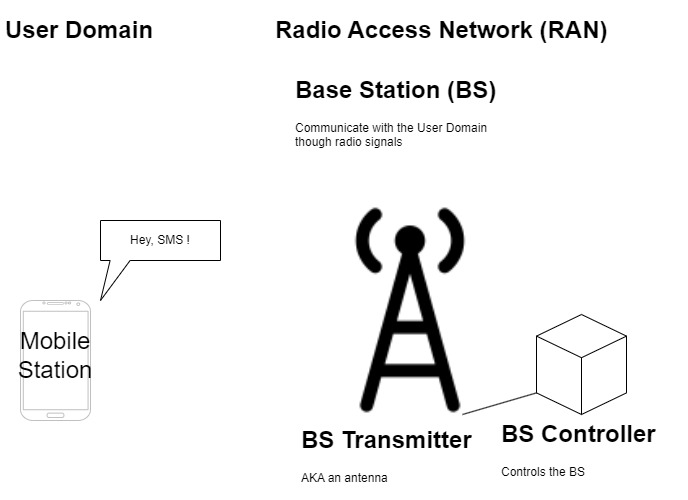
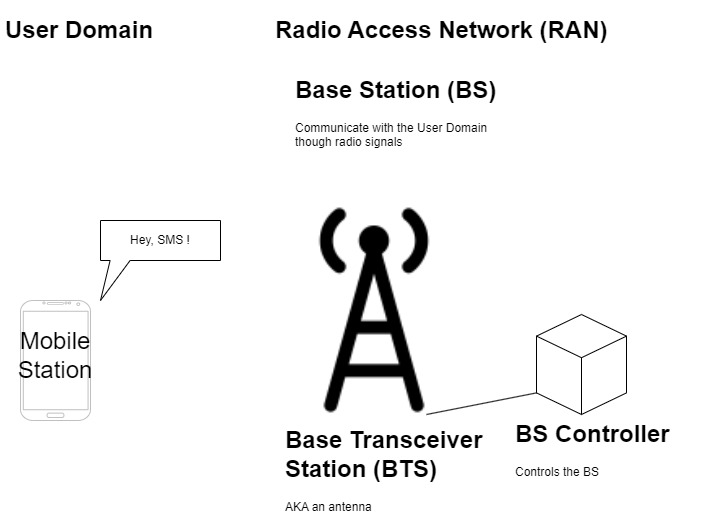
fixed BTS wrong acronym

diff --git a/arm/arm.md b/arm/arm.md
@@ -9,22 +9,22 @@ Sources :
 
 # Sending a SMS though the mobile network
 
-Because mobile network are no fun without stories, let's start a new one.
+Because mobile networks are no fun without stories, let's start a new one.
 
 ## User Domain
 
-Your name's Alicia and you possess a mobile phone. Here, your mobile phone will be referred as a *mobile station* (**MS**) or more globally, a *user equipment* (**UE**). In your phone, there's a **SIM** (*Subscriber Identify Module*) card.
+Your name's Alicia and you possess a mobile phone. Here, your mobile phone will be referred to as a *mobile station* (**MS**) or more globally, a *user equipment* (**UE**). In your phone, there's a **SIM** (*Subscriber Identify Module*) card.
 
 ![](images/sms-user-domain.jpg)
 
 
-> uSIM and eSIM stands for *universal SIM* and *electronic SIM* and are just newer version of the good old SIM.
+> uSIM and eSIM stands for *universal SIM* and *electronic SIM* and are just newer versions of the good old SIM.
 
 There's also a fancy name for your phone number : the *mobile station international subscriber directory number*, a.k.a the **MSISDN** 🤯.
 
 There are a whole lot of identifiers but we'll talk about that later ([here](#theres-more-to-say-about-identifiers)).
 
-Now, let's send a **SMS** (*Short Media Service*). If you want to achieve this, you should be close to an antenna. Here, the antennas will are referred as **BST** for *Base Station Transmitter*.
+Now, let's send a **SMS** (*Short Media Service*). If you want to achieve this, you should be close to an antenna. Here, the antennas will are referred as **BTS** for *Base Transceiver Station*.
 
 You're entering the **RAN**, the *Radio Access Network* !
 
@@ -32,19 +32,19 @@ You're entering the **RAN**, the *Radio Access Network* !
 
 > But what's a *Base Station* ?
 
-A base station is usually composed of two elements : the BST (the antenna) and a **BSC** (*Base Station Controller*). 
-It will be the entrypoint for your SMS. The SMS will be received by the BST and treated by the BSC.
+A base station is usually composed of two elements : the BTS (the antenna) and a **BSC** (*Base Station Controller*). 
+It will be the entrypoint for your SMS. The SMS will be received by the BTS and treated by the BSC.
 
 ![](images/sms-ran.jpg)
 
 The roles of the BSC are :
 - to control the base station,
-- to concentrate the traffic (multiple BST can be connected to a single BSC),
+- to concentrate the traffic (multiple BTS can be connected to a single BSC),
 - to define the radio resource allocation algorithm
 
 For 3G, the BTS is a **NodeB** and the BSC is a **RNC**, *Radio Network Controller*.
 
-For 4G / LTE, the BST and BSC are a unique device called a **eNodeB**.
+For 4G / LTE, the BTS and BSC are a unique device called a **eNodeB**.
 For 5G, this device is called a **gNodeB**.
 
 > Let's dive even deeper on eNodeB and gNodeB.
@@ -54,7 +54,7 @@ For 5G, this device is called a **gNodeB**.
 > The BBU can be placed at a certain distance from the RRH, so that it can find its place in a small datacenter or a PoP (Point of Presence) where it can easily be managed.
 > But in fact, the BBU is usually placed next to its RRH, under the sun and the snow where it can die the fastest 😐.
 
-Now, what happens ? Your SMS was correctly received by the BST that sent it to its BSC which makes your SMS go from the RAN to the **CN**, the *Core Network* !
+Now, what happens ? Your SMS was correctly received by the BTS that sent it to its BSC which makes your SMS go from the RAN to the **CN**, the *Core Network* !
 
 ### Territory division
 
